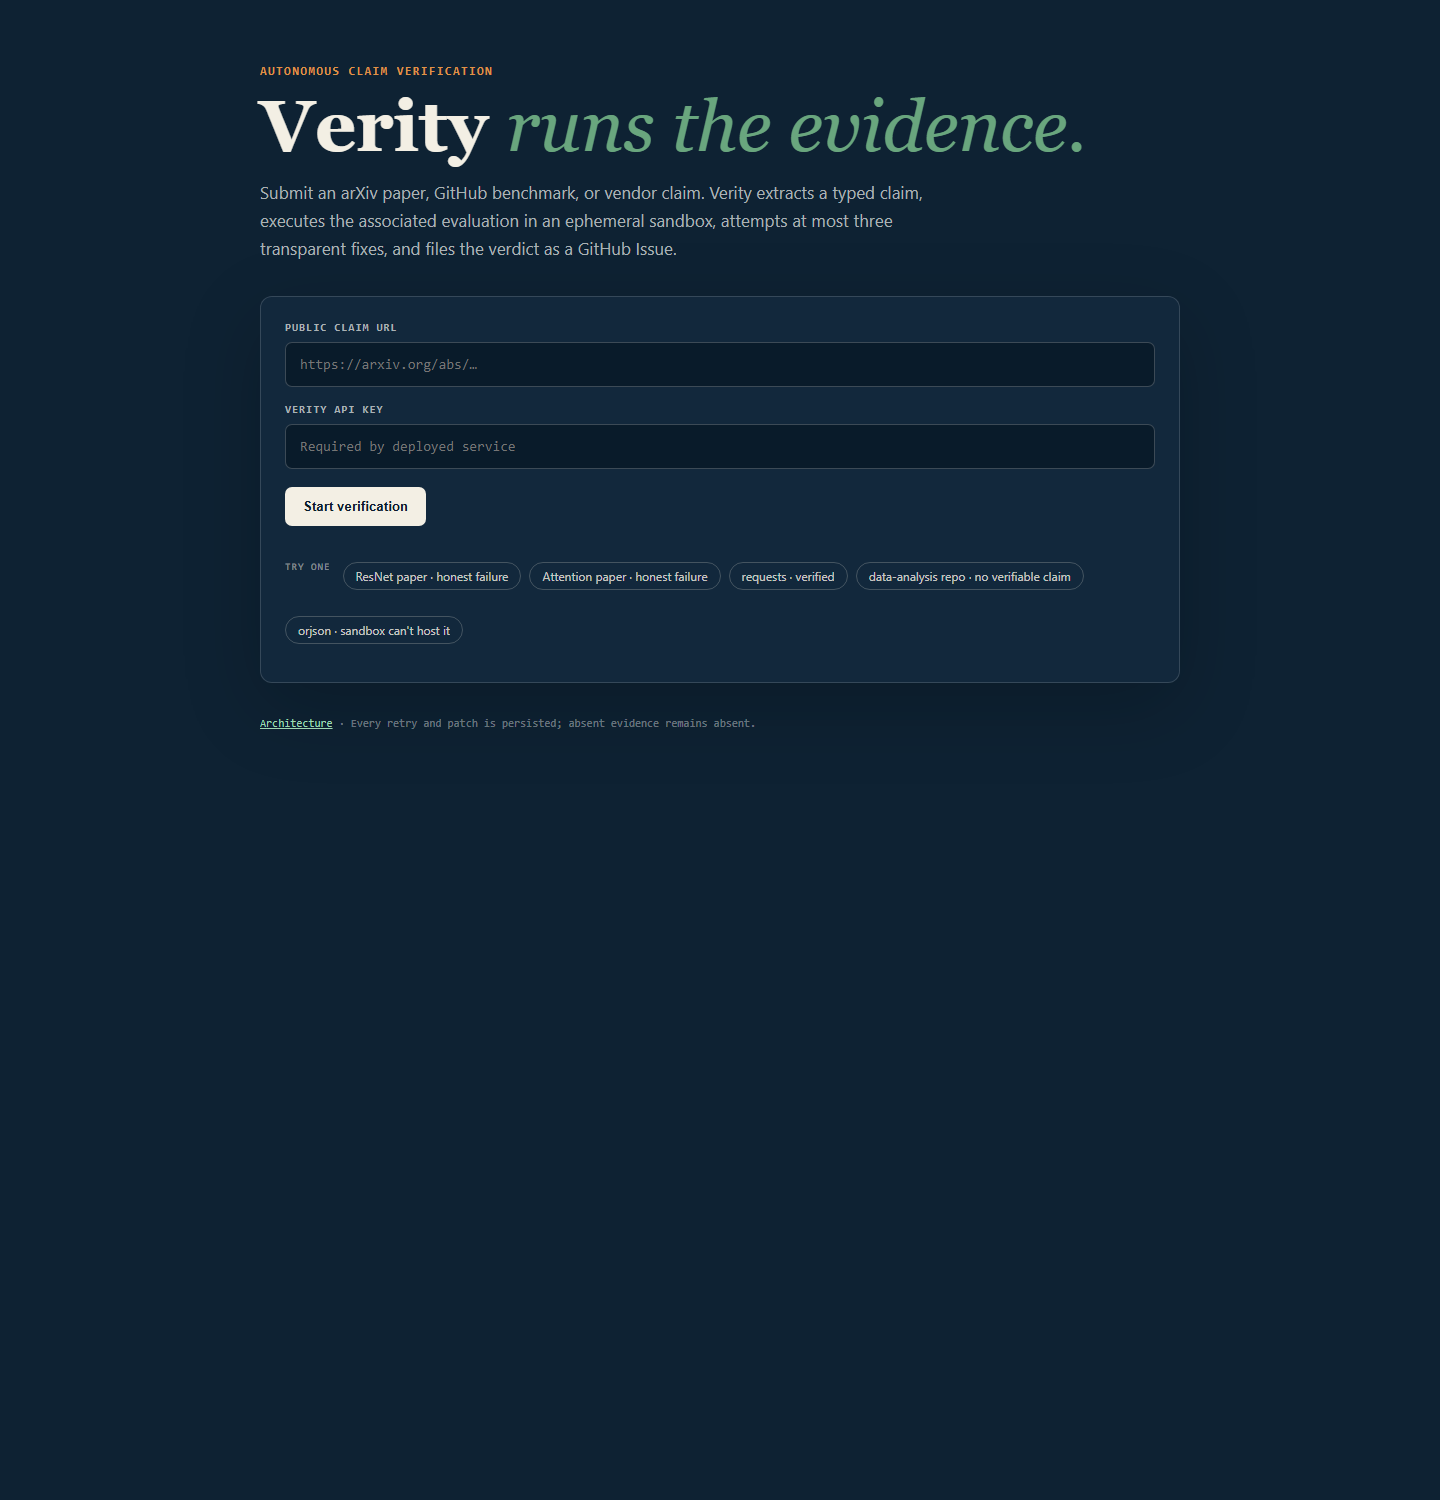
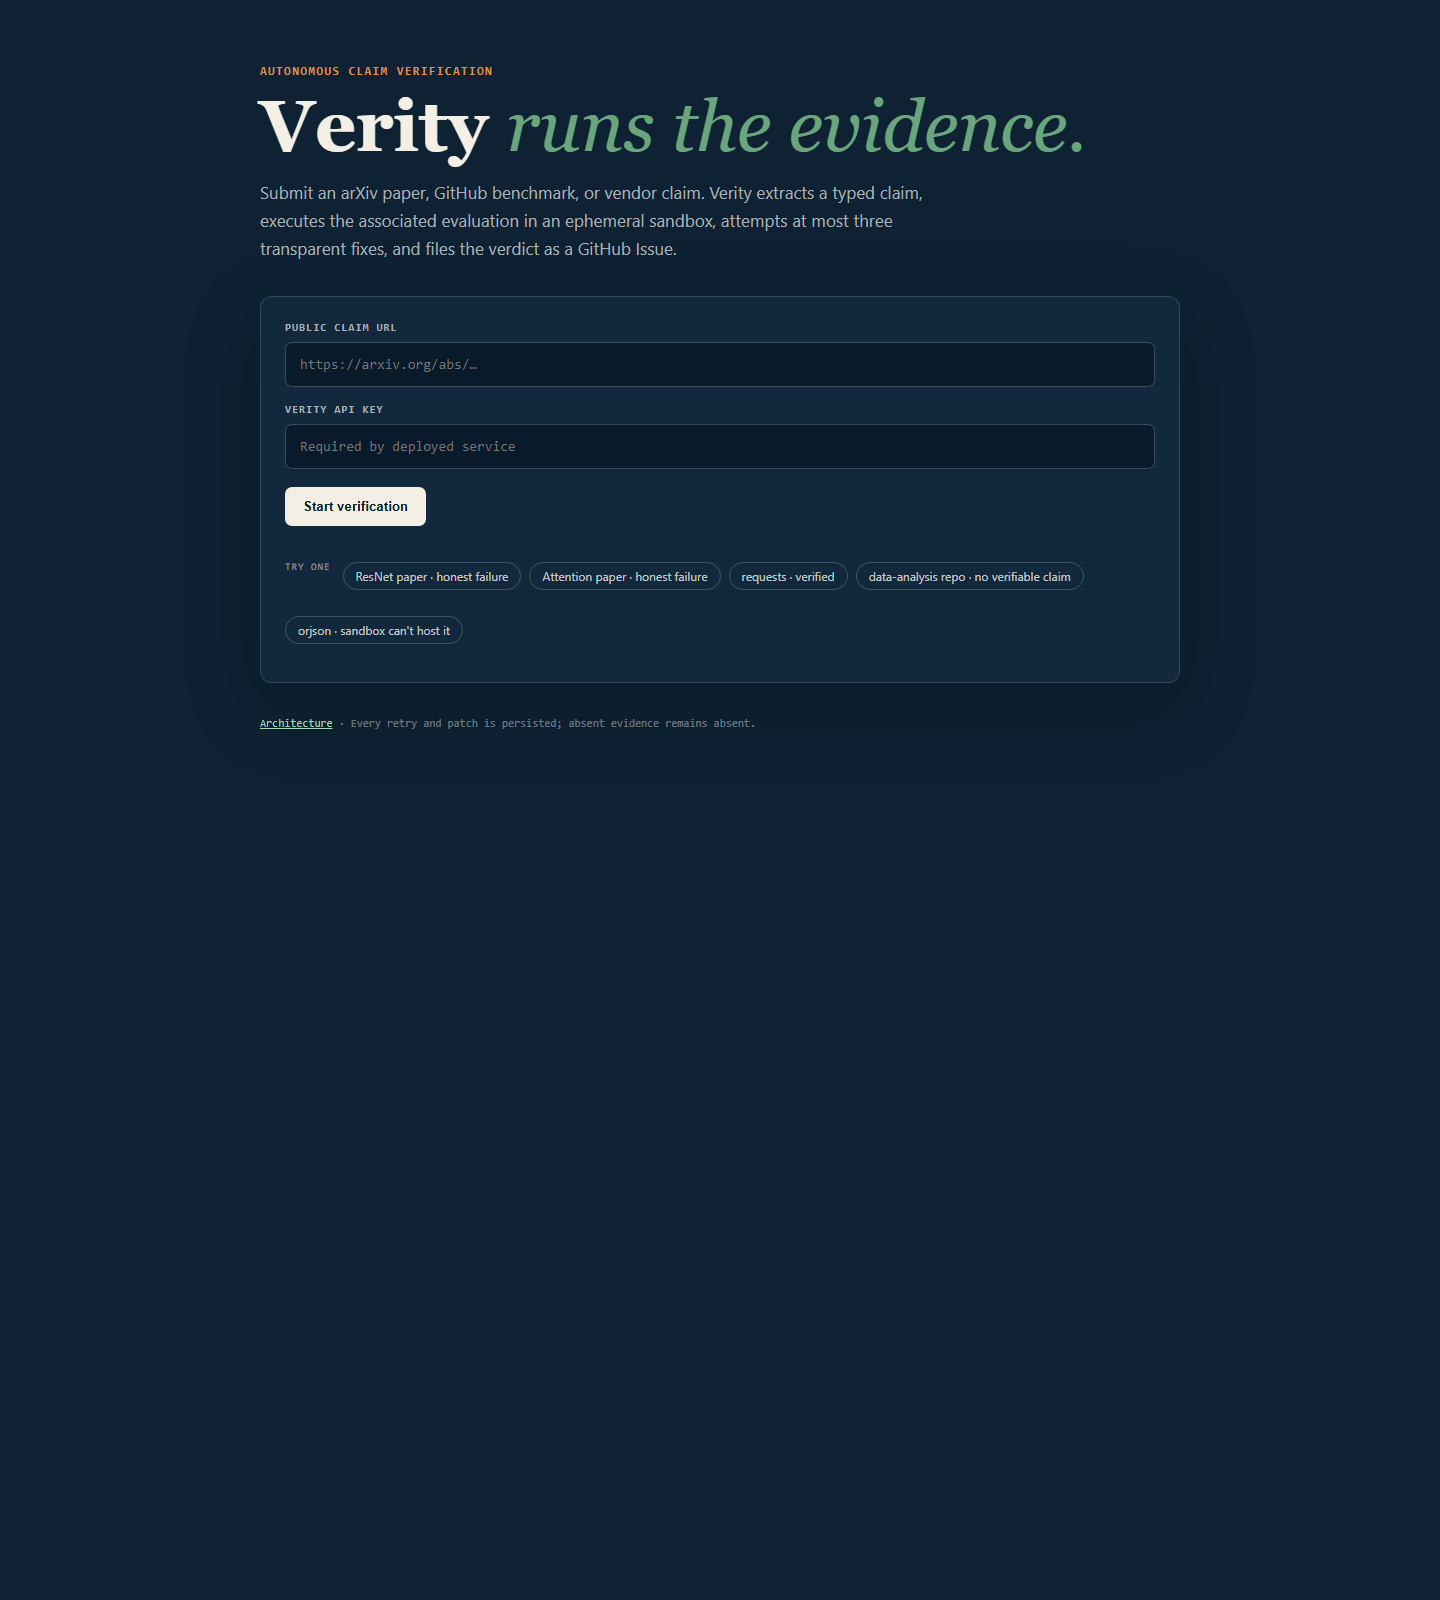
ui: name the source in each example chip, not its verdict
The chips asserted outcomes - "requests - verified", "ResNet paper -
honest failure" - which were true of the local demo cache and are not
true of the deployed service. On the public deployment psf/requests
reads as a popularity statistic, "300M downloads / week", and correctly
returns no_verifiable_claim_found, so a judge clicking a chip labelled
"verified" was shown something else.

The demo cache already drifted into this failure twice, and the manifest
gate added then keeps the cache honest without touching the labels. A
label that promises a verdict before the run is the habit Verity exists
to argue against, so the chips now name the source and let the run
speak. Nothing asserts on their text.

diff --git a/verity/static/index.html b/verity/static/index.html
@@ -61,12 +61,16 @@
       <div class="field"><label for="url">Public claim URL</label><input id="url" type="url" required placeholder="https://arxiv.org/abs/…" autocomplete="url"></div>
       <div class="field"><label for="key">Verity API key</label><input id="key" type="password" placeholder="Required by deployed service" autocomplete="current-password"></div>
       <button id="submit" type="submit">Start verification</button>
+<!-- These name the *source*, never the verdict. Labelling a chip with its outcome promises a
+     result before the run, which is the exact habit Verity exists to argue against - and it was
+     briefly wrong in public: "requests - verified" came from a local cache, while the deployed
+     service reads the same README as a popularity statistic and returns no_verifiable_claim_found. -->
 <div class="examples"><span class="examples-label">Try one</span>
-<button type="button" class="chip" data-url="https://arxiv.org/abs/1512.03385">ResNet paper &middot; honest failure</button>
-<button type="button" class="chip" data-url="https://arxiv.org/abs/1706.03762">Attention paper &middot; honest failure</button>
-<button type="button" class="chip" data-url="https://github.com/psf/requests">requests &middot; verified</button>
-<button type="button" class="chip" data-url="https://github.com/ZiyadAzzaz/Stroke-Data-Analysis">data-analysis repo &middot; no verifiable claim</button>
-<button type="button" class="chip" data-url="https://github.com/ijl/orjson">orjson &middot; sandbox can't host it</button>
+<button type="button" class="chip" data-url="https://arxiv.org/abs/1512.03385">ResNet paper</button>
+<button type="button" class="chip" data-url="https://arxiv.org/abs/1706.03762">Attention paper</button>
+<button type="button" class="chip" data-url="https://github.com/psf/requests">requests README</button>
+<button type="button" class="chip" data-url="https://github.com/ZiyadAzzaz/Stroke-Data-Analysis">data-analysis repo</button>
+<button type="button" class="chip" data-url="https://github.com/ijl/orjson">orjson &middot; compiled extension</button>
 </div>
     </form>
     <div id="error" class="error" role="alert"></div>
